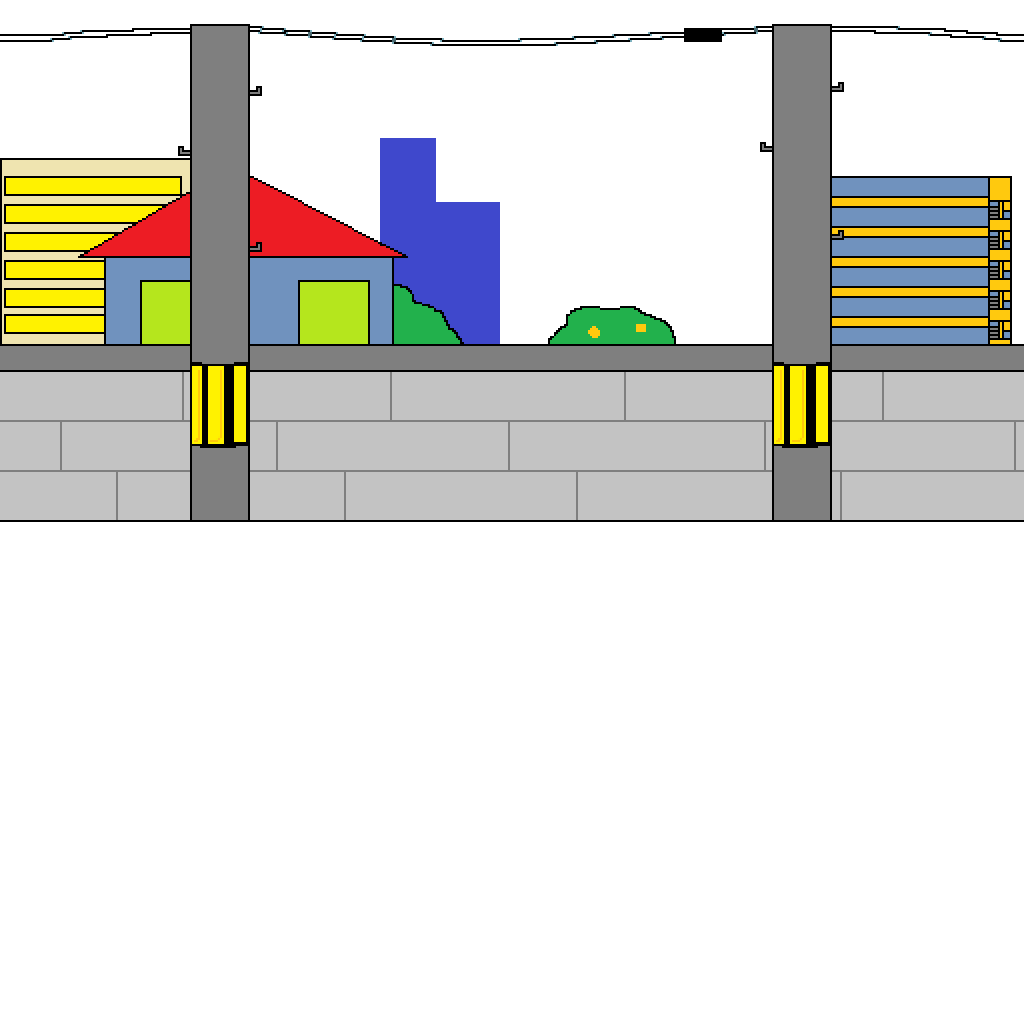
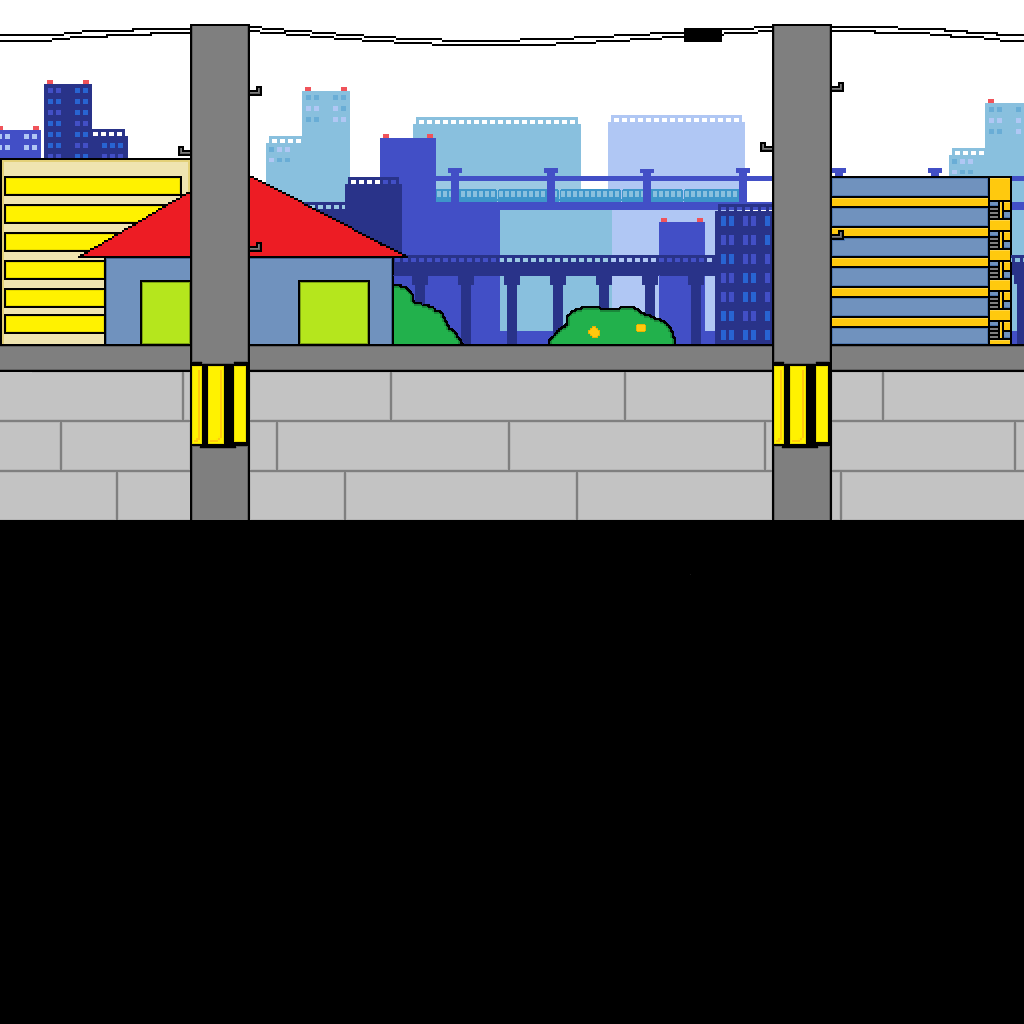
HPの表示と背景の調整

diff --git a/KiraKira/ObjBlock.cpp b/KiraKira/ObjBlock.cpp
@@ -201,7 +201,7 @@ void CObjBlock::Draw()
 		}
 		dst.m_top = 0.0f;
 		dst.m_left = 0.0f  + plus_x + m_scroll;
-		dst.m_right = 965.0f + plus_x + m_scroll;
+		dst.m_right = 1024.0f + plus_x + m_scroll;
 		dst.m_bottom = 600.0f;
 		Draw::Draw(1, &src, &dst, c, 0.0f);
 	}
